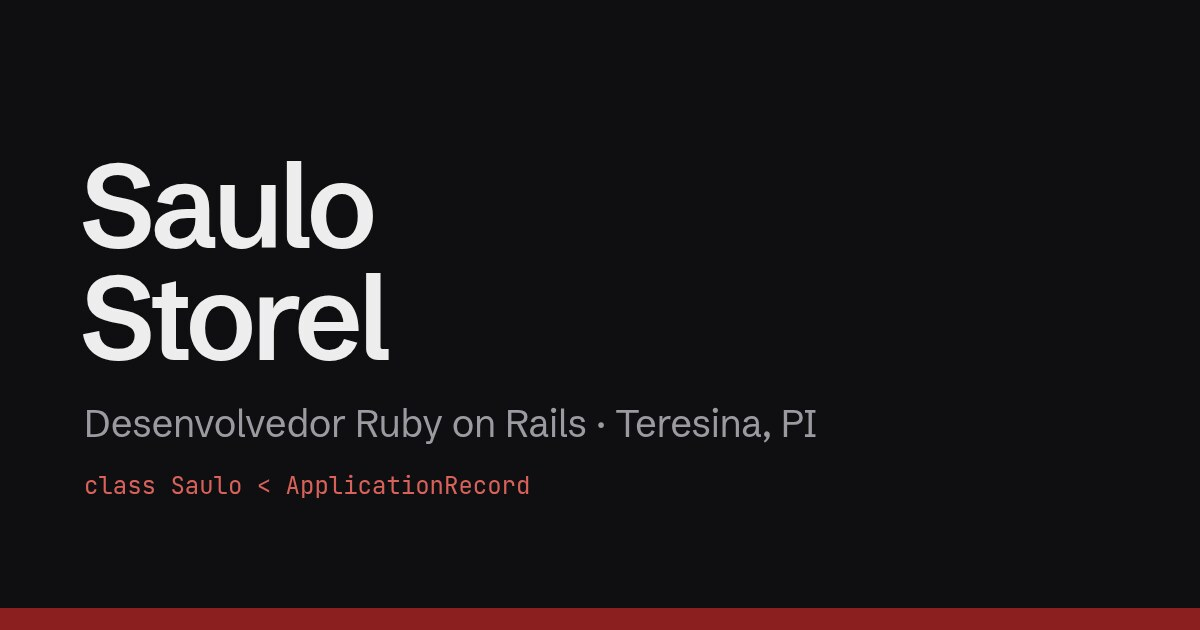
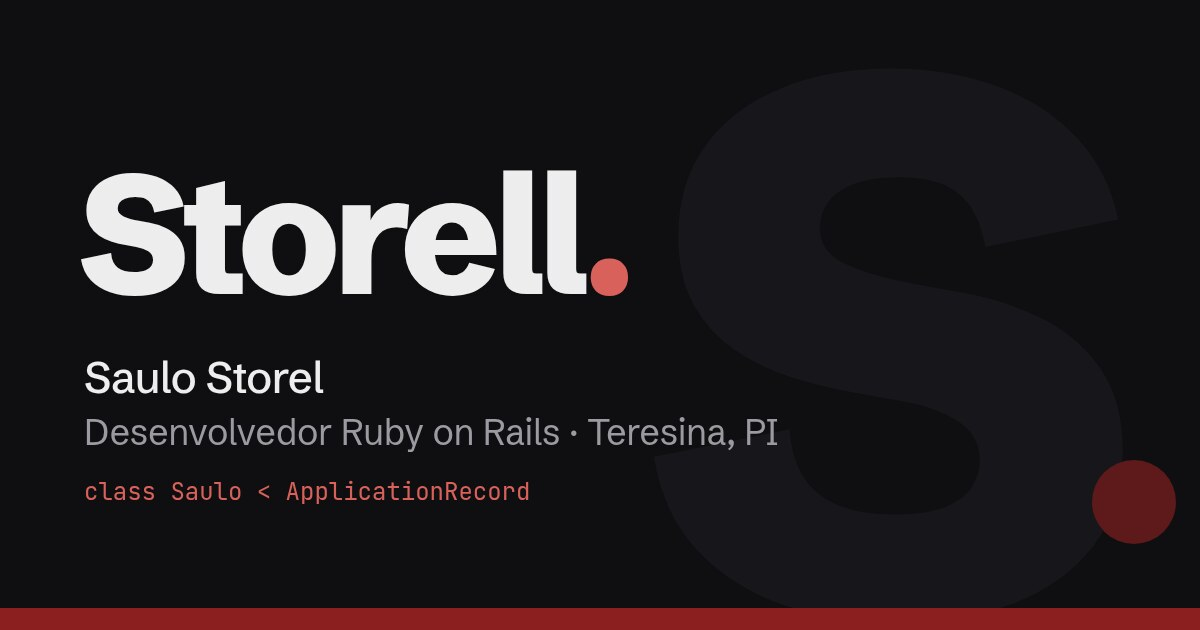
feat: marca Storell no cabeçalho, rodapé, 404 e imagem de compartilhamento

Changed region(s): [[0.0617, 0.2413, 0.6783, 0.7238], [0.0617, 0.754, 0.4625, 0.8143], [0.8942, 0.7238, 0.9867, 0.8746]]

diff --git a/style.css b/style.css
@@ -161,15 +161,27 @@ section[id] { scroll-margin-top: 24px; }
 /* ---------- Cabeçalho ---------- */
 
 .masthead {
+  align-items: center;
   padding-top: 20px;
   padding-bottom: 20px;
   font-size: 15px;
 }
 
-.masthead-name { grid-column: 1 / 4; font-weight: 600; }
-.masthead-role { grid-column: 4 / 7; color: var(--muted); }
-.masthead-clock { grid-column: 7 / 10; color: var(--muted); }
+.masthead-brand {
+  grid-column: 1 / 4;
+  justify-self: start;
+  font-size: 22px;
+  font-weight: 800;
+  line-height: 1;
+  letter-spacing: -0.05em;
+}
+
+.masthead-role { grid-column: 4 / 8; color: var(--muted); }
+.masthead-clock { grid-column: 8 / 10; color: var(--muted); }
 .masthead-clock time { margin-left: 4px; color: var(--ink); }
+
+/* O ponto final vermelho da marca: logotipo e frase de abertura. */
+.dot { color: var(--accent); }
 
 .masthead-nav {
   display: flex;
@@ -647,6 +659,9 @@ section[id] { scroll-margin-top: 24px; }
 
 .case-head .lead { grid-column: 1 / 9; color: var(--muted); }
 
+/* 404: o erro de rota do Rails, como ele aparece no log. */
+.not-found .code { grid-column: 1 / 9; }
+
 .case-meta {
   display: grid;
   grid-column: 1 / -1;
@@ -713,9 +728,21 @@ section[id] { scroll-margin-top: 24px; }
   border-top: 1px solid var(--line);
   color: var(--muted);
   font-size: 15px;
+  container-type: inline-size;
 }
 
-.footer p:first-child { grid-column: 1 / 4; }
+/* O logotipo assina a página ocupando a largura do conteúdo (3,27em de largura → 30cqi). */
+.footer-brand {
+  grid-column: 1 / -1;
+  margin: clamp(24px, 4vw, 56px) 0 clamp(20px, 3vw, 40px);
+  color: var(--ink);
+  font-size: 30cqi;
+  font-weight: 800;
+  line-height: 0.8;
+  letter-spacing: -0.05em;
+}
+
+.footer-copy { grid-column: 1 / 4; }
 .footer-note { grid-column: 4 / 10; }
 
 .footer-top {
@@ -768,7 +795,7 @@ section[id] { scroll-margin-top: 24px; }
 
 @media (max-width: 900px) {
   .masthead-role { display: none; }
-  .masthead-name { grid-column: 1 / 5; }
+  .masthead-brand { grid-column: 1 / 5; }
   .masthead-clock { grid-column: 5 / 9; }
   .masthead-nav { grid-column: 9 / 13; }
 
@@ -778,7 +805,7 @@ section[id] { scroll-margin-top: 24px; }
   .about-photo { grid-column: 9 / 13; }
   .gemfile { grid-column: 1 / 8; }
   .stack-side { grid-column: 8 / 13; }
-  .case-title, .case-head .lead { grid-column: 1 / -1; }
+  .case-title, .case-head .lead, .not-found .code { grid-column: 1 / -1; }
   .case-meta { grid-template-columns: repeat(2, minmax(0, 1fr)); row-gap: 24px; }
   .case-next .label { grid-column: 1 / -1; margin-bottom: 12px; }
   .case-next a { grid-column: 1 / -1; }
@@ -801,7 +828,7 @@ section[id] { scroll-margin-top: 24px; }
 
 @media (max-width: 640px) {
   .masthead { row-gap: 4px; }
-  .masthead-name { grid-column: 1 / 7; }
+  .masthead-brand { grid-column: 1 / 7; }
   .masthead-clock { grid-column: 7 / 13; justify-self: end; }
   .masthead-nav { grid-column: 1 / -1; justify-content: flex-start; margin-top: 8px; }
 
@@ -824,9 +851,9 @@ section[id] { scroll-margin-top: 24px; }
 
   .contact-form { grid-template-columns: minmax(0, 1fr); }
 
-  .footer p:first-child { grid-column: 1 / 7; }
+  .footer-copy { grid-column: 1 / -1; }
   .footer-note { display: none; }
-  .footer-top { grid-column: 7 / 13; }
+  .footer-top { grid-column: 1 / -1; justify-self: start; margin-top: 8px; }
 }
 
 @media (prefers-reduced-motion: reduce) {

diff --git a/index.html b/index.html
@@ -24,7 +24,7 @@
     <meta property="og:image:alt" content="Saulo Storel, desenvolvedor Ruby on Rails" />
     <meta property="og:locale" content="pt_BR" />
     <meta property="og:locale:alternate" content="en_US" />
-    <meta property="og:site_name" content="Saulo Storel" />
+    <meta property="og:site_name" content="Storell" />
 
     <!-- Twitter Cards -->
     <meta name="twitter:card" content="summary_large_image" />
@@ -42,7 +42,7 @@
           "@id": "https://www.storell.dev.br/#website",
           "url": "https://www.storell.dev.br/",
           "name": "Saulo Storel",
-          "alternateName": ["Saulo Storel — Portfólio", "storell.dev.br"],
+          "alternateName": ["Storell", "Saulo Storel — Portfólio", "storell.dev.br"],
           "description": "Portfólio de Saulo Storel, desenvolvedor Ruby on Rails.",
           "inLanguage": ["pt-BR", "en"],
           "publisher": { "@id": "https://www.storell.dev.br/#saulo" }
@@ -110,7 +110,7 @@
 
     <link rel="preload" href="/fonts/schibsted-grotesk.woff2" as="font" type="font/woff2" crossorigin />
     <link rel="stylesheet" href="https://cdn.jsdelivr.net/npm/lenis@1.3.26/dist/lenis.css" />
-    <link rel="stylesheet" href="/style.css?v=2026-10-23" />
+    <link rel="stylesheet" href="/style.css?v=2026-10-30" />
     <script>
       // Esconde só o que a entrada anima; motion.js revela. A trava de 3s cobre falha no CDN.
       if (matchMedia("(prefers-reduced-motion: no-preference)").matches) {
@@ -138,8 +138,8 @@ FINISH: unreviewed and undocumented is unfinished; this build ends with the fini
     <div class="toast" id="toast" role="status" aria-live="polite"></div>
 
     <header class="masthead grid" id="top">
-      <a class="masthead-name" href="#top">Saulo Storel</a>
-      <p class="masthead-role">Desenvolvedor Ruby on Rails</p>
+      <a class="masthead-brand" href="#top">Storell<span class="dot">.</span></a>
+      <p class="masthead-role">Saulo Storel, desenvolvedor Ruby on Rails</p>
       <p class="masthead-clock">Teresina, PI <time data-local-time>--:--</time></p>
       <nav class="masthead-nav" aria-label="Navegação principal">
         <a href="#projects">Projetos</a>
@@ -153,7 +153,7 @@ FINISH: unreviewed and undocumented is unfinished; this build ends with the fini
 
       <section class="intro grid" aria-label="Apresentação">
         <h1 class="sr-only">Saulo Storel, desenvolvedor Ruby on Rails</h1>
-        <p class="intro-statement">Ruby on Rails é o meu forte.</p>
+        <p class="intro-statement">Ruby on Rails é o meu forte<span class="dot">.</span></p>
 
         <figure class="code intro-code">
           <figcaption>app/models/saulo.rb</figcaption>
@@ -390,7 +390,8 @@ FINISH: unreviewed and undocumented is unfinished; this build ends with the fini
     </main>
 
     <footer class="footer grid">
-      <p>© <span id="footer-year"></span> Saulo Storel</p>
+      <p class="footer-brand" aria-hidden="true">Storell<span class="dot">.</span></p>
+      <p class="footer-copy">© <span id="footer-year"></span> Storell · Saulo Storel</p>
       <p class="footer-note">Este site é HTML puro. O Rails fica para os sistemas.</p>
       <a class="footer-top" href="#top">Voltar ao topo<svg class="icon" aria-hidden="true"><use href="#i-arrow-up"/></svg></a>
     </footer>

diff --git a/en/index.html b/en/index.html
@@ -24,7 +24,7 @@
     <meta property="og:image:alt" content="Saulo Storel, Ruby on Rails developer" />
     <meta property="og:locale" content="en_US" />
     <meta property="og:locale:alternate" content="pt_BR" />
-    <meta property="og:site_name" content="Saulo Storel" />
+    <meta property="og:site_name" content="Storell" />
 
     <!-- Twitter Cards -->
     <meta name="twitter:card" content="summary_large_image" />
@@ -42,7 +42,7 @@
           "@id": "https://www.storell.dev.br/#website",
           "url": "https://www.storell.dev.br/",
           "name": "Saulo Storel",
-          "alternateName": ["Saulo Storel — Portfolio", "storell.dev.br"],
+          "alternateName": ["Storell", "Saulo Storel — Portfolio", "storell.dev.br"],
           "description": "Portfolio of Saulo Storel, Ruby on Rails developer.",
           "inLanguage": ["pt-BR", "en"],
           "publisher": { "@id": "https://www.storell.dev.br/#saulo" }
@@ -110,7 +110,7 @@
 
     <link rel="preload" href="/fonts/schibsted-grotesk.woff2" as="font" type="font/woff2" crossorigin />
     <link rel="stylesheet" href="https://cdn.jsdelivr.net/npm/lenis@1.3.26/dist/lenis.css" />
-    <link rel="stylesheet" href="/style.css?v=2026-10-23" />
+    <link rel="stylesheet" href="/style.css?v=2026-10-30" />
     <script>
       // Esconde só o que a entrada anima; motion.js revela. A trava de 3s cobre falha no CDN.
       if (matchMedia("(prefers-reduced-motion: no-preference)").matches) {
@@ -130,8 +130,8 @@
     <div class="toast" id="toast" role="status" aria-live="polite"></div>
 
     <header class="masthead grid" id="top">
-      <a class="masthead-name" href="#top">Saulo Storel</a>
-      <p class="masthead-role">Ruby on Rails developer</p>
+      <a class="masthead-brand" href="#top">Storell<span class="dot">.</span></a>
+      <p class="masthead-role">Saulo Storel, Ruby on Rails developer</p>
       <p class="masthead-clock">Teresina, Brazil <time data-local-time>--:--</time></p>
       <nav class="masthead-nav" aria-label="Main navigation">
         <a href="#projects">Projects</a>
@@ -145,7 +145,7 @@
 
       <section class="intro grid" aria-label="Introduction">
         <h1 class="sr-only">Saulo Storel, Ruby on Rails developer</h1>
-        <p class="intro-statement">Ruby on Rails is my strong suit.</p>
+        <p class="intro-statement">Ruby on Rails is my strong suit<span class="dot">.</span></p>
 
         <figure class="code intro-code">
           <figcaption>app/models/saulo.rb</figcaption>
@@ -382,7 +382,8 @@
     </main>
 
     <footer class="footer grid">
-      <p>© <span id="footer-year"></span> Saulo Storel</p>
+      <p class="footer-brand" aria-hidden="true">Storell<span class="dot">.</span></p>
+      <p class="footer-copy">© <span id="footer-year"></span> Storell · Saulo Storel</p>
       <p class="footer-note">This site is plain HTML. Rails is for the systems.</p>
       <a class="footer-top" href="#top">Back to top<svg class="icon" aria-hidden="true"><use href="#i-arrow-up"/></svg></a>
     </footer>

diff --git a/404.html b/404.html
@@ -1,0 +1,60 @@
+<!DOCTYPE html>
+<html lang="pt-BR">
+  <head>
+    <meta charset="UTF-8" />
+    <meta name="viewport" content="width=device-width, initial-scale=1.0" />
+    <meta name="robots" content="noindex" />
+    <meta name="theme-color" content="#0f0f11" />
+    <link rel="icon" href="/favicon.ico" sizes="48x48" />
+    <link rel="icon" type="image/png" sizes="96x96" href="/favicon-96.png" />
+    <link rel="icon" type="image/png" sizes="192x192" href="/favicon-192.png" />
+    <link rel="apple-touch-icon" href="/apple-touch-icon.png" />
+
+    <title>Página não encontrada · Storell</title>
+
+    <link rel="preload" href="/fonts/schibsted-grotesk.woff2" as="font" type="font/woff2" crossorigin />
+    <link rel="stylesheet" href="/style.css?v=2026-10-30" />
+  </head>
+  <body>
+    <svg hidden>
+      <symbol id="i-arrow-up" viewBox="0 0 24 24"><path d="M12 19V5M6 11l6-6 6 6"/></symbol>
+    </svg>
+
+    <div class="toast" id="toast" role="status" aria-live="polite"></div>
+
+    <header class="masthead grid" id="top">
+      <a class="masthead-brand" href="/">Storell<span class="dot">.</span></a>
+      <p class="masthead-role">Saulo Storel, desenvolvedor Ruby on Rails</p>
+      <p class="masthead-clock">Teresina, PI <time data-local-time>--:--</time></p>
+      <nav class="masthead-nav" aria-label="Navegação principal">
+        <a href="/#projects">Projetos</a>
+        <a href="/#about">Sobre</a>
+        <a href="/#contact">Contato</a>
+        <a class="lang" href="/en/" hreflang="en" lang="en">EN</a>
+      </nav>
+    </header>
+
+    <main class="case-head grid not-found">
+      <h1 class="case-title">Essa página não existe<span class="dot">.</span></h1>
+      <figure class="code">
+        <figcaption>log/production.log</figcaption>
+<pre tabindex="0"><code><span class="c">ActionController::RoutingError</span>
+  No route matches [GET] <span class="s">"<span data-path>/</span>"</span></code></pre>
+      </figure>
+      <p class="lead">O endereço pode ter mudado. Os projetos continuam na página inicial.</p>
+      <a class="case-back" href="/">Voltar ao início</a>
+    </main>
+
+    <footer class="footer grid">
+      <p class="footer-brand" aria-hidden="true">Storell<span class="dot">.</span></p>
+      <p class="footer-copy">© <span id="footer-year"></span> Storell · Saulo Storel</p>
+      <p class="footer-note">Este site é HTML puro. O Rails fica para os sistemas.</p>
+      <a class="footer-top" href="#top">Voltar ao topo<svg class="icon" aria-hidden="true"><use href="#i-arrow-up"/></svg></a>
+    </footer>
+
+    <script src="/common.js"></script>
+    <script>
+      document.querySelector("[data-path]").textContent = location.pathname;
+    </script>
+  </body>
+</html>

diff --git a/projeto.html b/projeto.html
@@ -27,7 +27,7 @@
 
     <link rel="preload" href="/fonts/schibsted-grotesk.woff2" as="font" type="font/woff2" crossorigin />
     <link rel="stylesheet" href="https://cdn.jsdelivr.net/npm/lenis@1.3.26/dist/lenis.css" />
-    <link rel="stylesheet" href="/style.css?v=2026-10-23" />
+    <link rel="stylesheet" href="/style.css?v=2026-10-30" />
     <script>
       // Esconde só o que a entrada anima; motion.js revela. A trava de 3s cobre falha no CDN.
       if (matchMedia("(prefers-reduced-motion: no-preference)").matches) {
@@ -46,8 +46,8 @@
     <div class="toast" id="toast" role="status" aria-live="polite"></div>
 
     <header class="masthead grid" id="top">
-      <a class="masthead-name" href="/">Saulo Storel</a>
-      <p class="masthead-role">Desenvolvedor Ruby on Rails</p>
+      <a class="masthead-brand" href="/">Storell<span class="dot">.</span></a>
+      <p class="masthead-role">Saulo Storel, desenvolvedor Ruby on Rails</p>
       <p class="masthead-clock">Teresina, PI <time data-local-time>--:--</time></p>
       <nav class="masthead-nav" aria-label="Navegação principal">
         <a href="/#projects">Projetos</a>
@@ -60,7 +60,8 @@
     <main id="case"></main>
 
     <footer class="footer grid">
-      <p>© <span id="footer-year"></span> Saulo Storel</p>
+      <p class="footer-brand" aria-hidden="true">Storell<span class="dot">.</span></p>
+      <p class="footer-copy">© <span id="footer-year"></span> Storell · Saulo Storel</p>
       <p class="footer-note">Este site é HTML puro. O Rails fica para os sistemas.</p>
       <a class="footer-top" href="#top">Voltar ao topo<svg class="icon" aria-hidden="true"><use href="#i-arrow-up"/></svg></a>
     </footer>

diff --git a/en/project.html b/en/project.html
@@ -27,7 +27,7 @@
 
     <link rel="preload" href="/fonts/schibsted-grotesk.woff2" as="font" type="font/woff2" crossorigin />
     <link rel="stylesheet" href="https://cdn.jsdelivr.net/npm/lenis@1.3.26/dist/lenis.css" />
-    <link rel="stylesheet" href="/style.css?v=2026-10-23" />
+    <link rel="stylesheet" href="/style.css?v=2026-10-30" />
     <script>
       // Esconde só o que a entrada anima; motion.js revela. A trava de 3s cobre falha no CDN.
       if (matchMedia("(prefers-reduced-motion: no-preference)").matches) {
@@ -46,8 +46,8 @@
     <div class="toast" id="toast" role="status" aria-live="polite"></div>
 
     <header class="masthead grid" id="top">
-      <a class="masthead-name" href="/en/">Saulo Storel</a>
-      <p class="masthead-role">Ruby on Rails developer</p>
+      <a class="masthead-brand" href="/en/">Storell<span class="dot">.</span></a>
+      <p class="masthead-role">Saulo Storel, Ruby on Rails developer</p>
       <p class="masthead-clock">Teresina, PI <time data-local-time>--:--</time></p>
       <nav class="masthead-nav" aria-label="Main navigation">
         <a href="/en/#projects">Projects</a>
@@ -60,7 +60,8 @@
     <main id="case"></main>
 
     <footer class="footer grid">
-      <p>© <span id="footer-year"></span> Saulo Storel</p>
+      <p class="footer-brand" aria-hidden="true">Storell<span class="dot">.</span></p>
+      <p class="footer-copy">© <span id="footer-year"></span> Storell · Saulo Storel</p>
       <p class="footer-note">This site is plain HTML. Rails is for the systems.</p>
       <a class="footer-top" href="#top">Back to top<svg class="icon" aria-hidden="true"><use href="#i-arrow-up"/></svg></a>
     </footer>

diff --git a/DESIGN.md b/DESIGN.md
@@ -19,6 +19,18 @@ Fundo escuro único, com um vermelho Rails dessaturado em dois papéis.
 
 O mapa de atividade usa a mesma família: `#1d1d22`, `#3a1416`, `#5e191b`, `#8b1e1e`, `#c2504a`.
 
+## Marca
+
+**Storell.** é a marca; Saulo Storel é a pessoa. A marca assina o site e o nome continua visível ao lado dela (título, SEO, dados estruturados e `.masthead-role`). O logotipo é "Storell" em Schibsted 800, tracking −0.05em, terminando no ponto vermelho (`.dot`, em `--accent`). O "S." do favicon é a versão curta. O ponto vermelho é a assinatura e aparece em poucos lugares.
+
+- Cabeçalho: `.masthead-brand`, o logotipo a 22px; ao lado, "Saulo Storel, desenvolvedor Ruby on Rails".
+- Abertura: o ponto final da frase.
+- Rodapé: `.footer-brand`, o logotipo ocupando a largura do conteúdo (`30cqi`; a palavra mede 3,27em), e "© Storell · Saulo Storel".
+- 404: o erro de rota do Rails como aparece no log, com o caminho pedido.
+- Imagem de compartilhamento (`images/og-image.jpg`): o logotipo grande, o nome e o cargo embaixo, e um S gigante em `#17171b` ao fundo, com o ponto em `#5e191b`.
+
+Fica de fora do kit de identidade: a Inter (a Schibsted cumpre o mesmo papel), as texturas de pontos e diagonais, as molduras e o slogan "Seu desenvolvedor".
+
 ## Tipografia
 
 Servidas pelo próprio site, em `/fonts/`.
